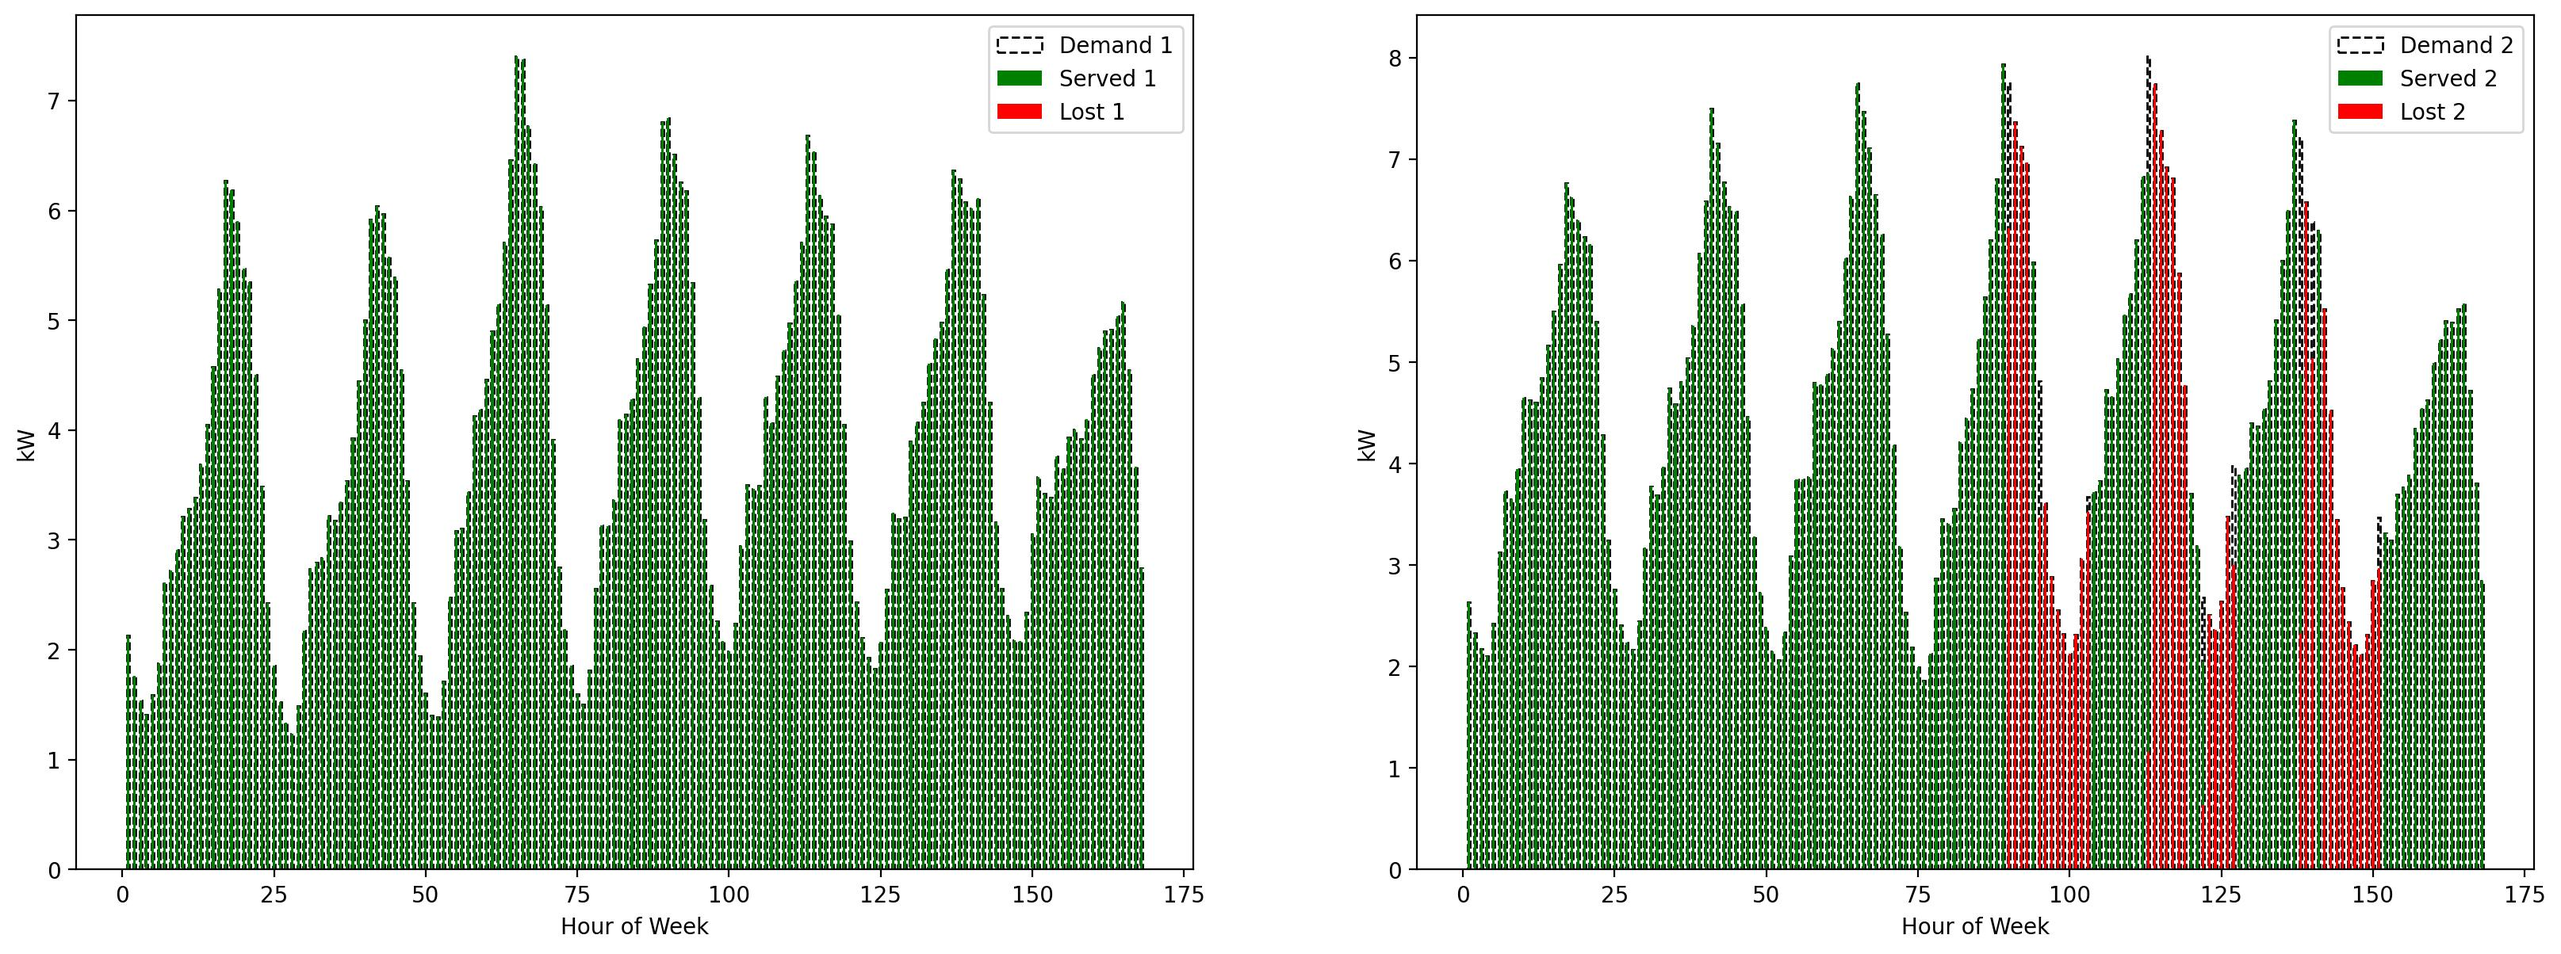
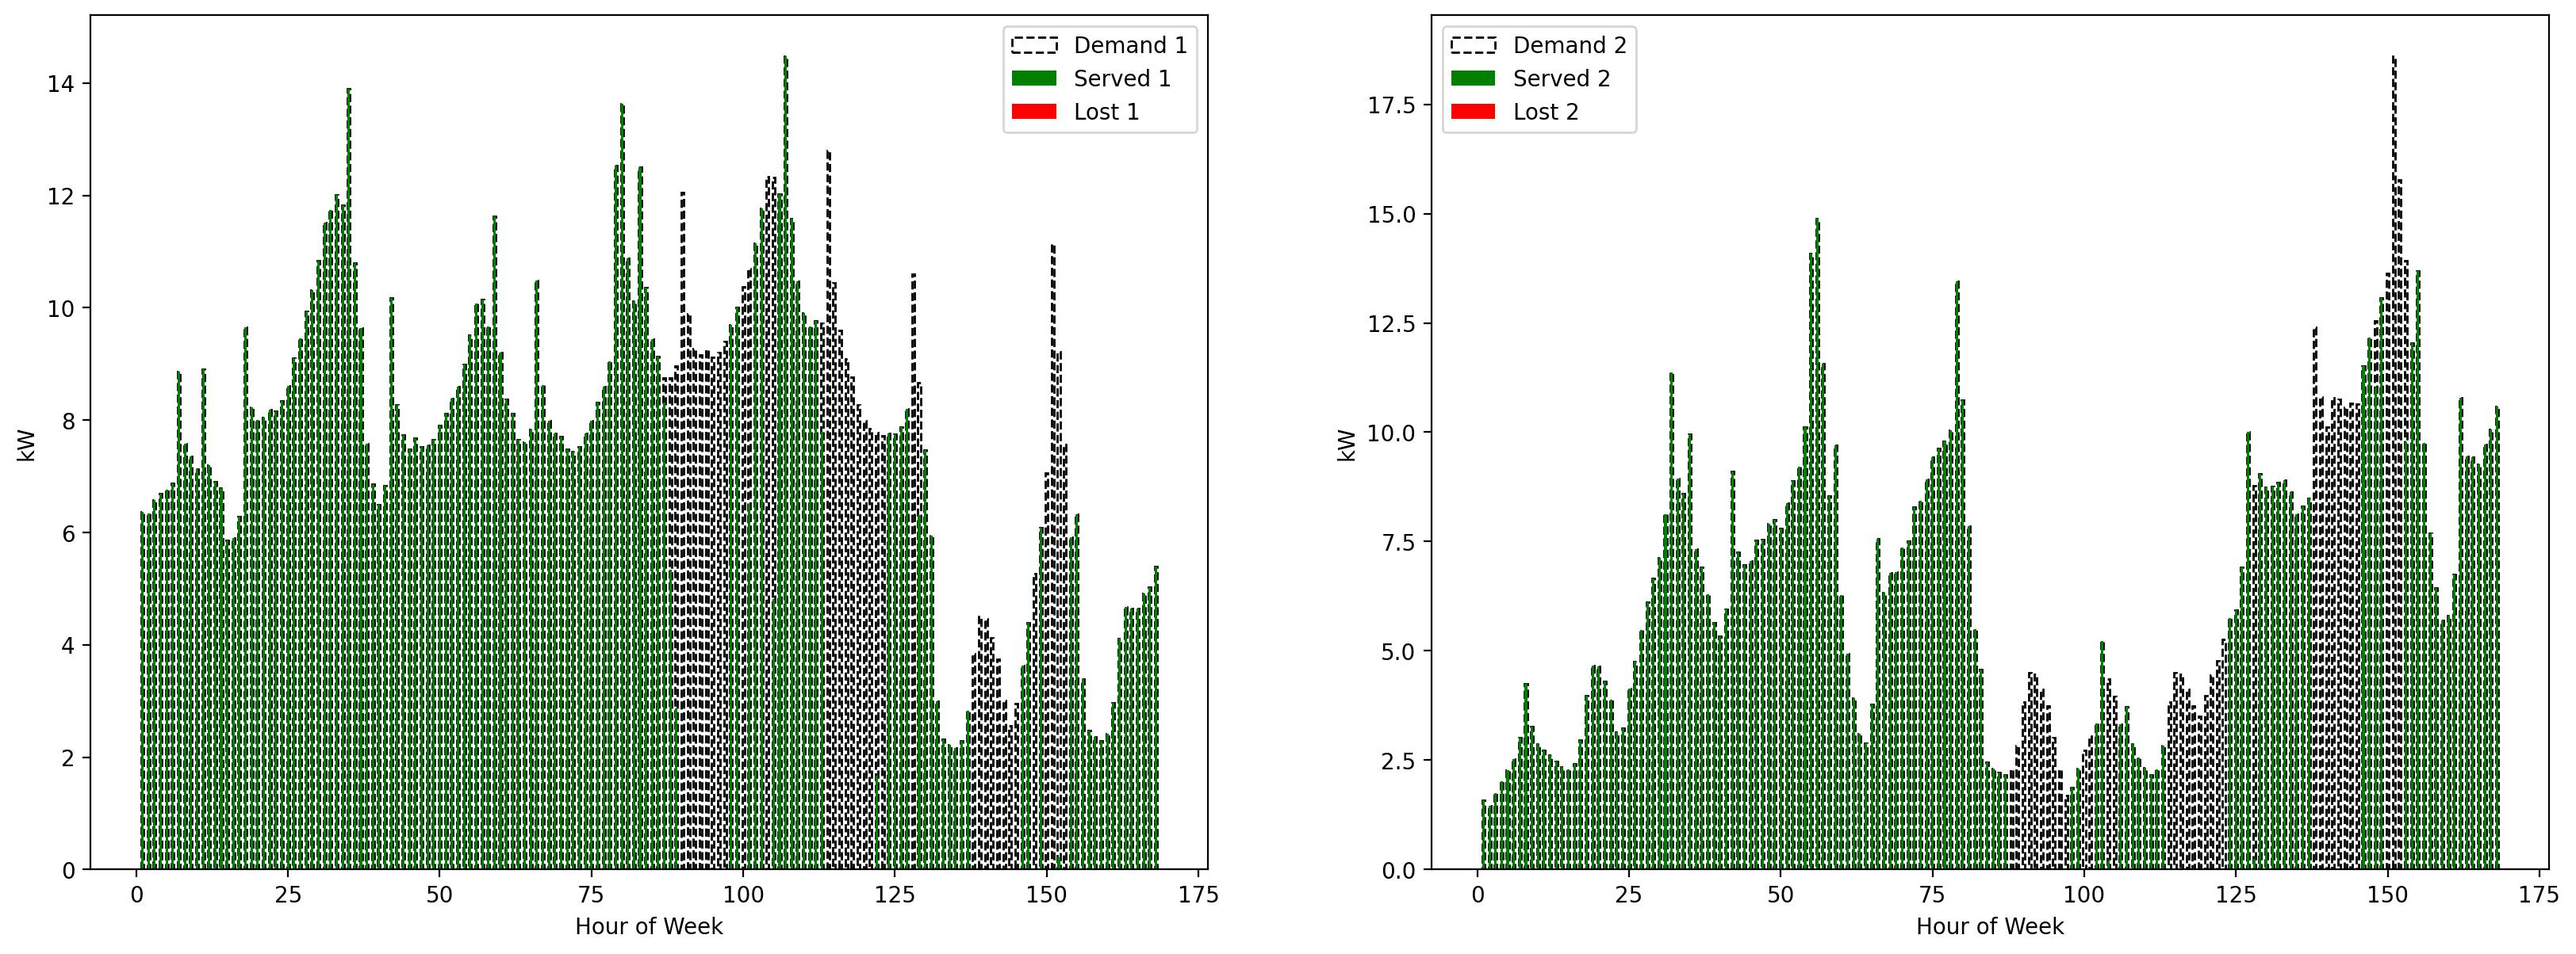
u

diff --git a/PlotSolutions.py b/PlotSolutions.py
@@ -18,7 +18,7 @@ if __name__ == '__main__':
     solar, l1, l2 = geneCases()
     w = 0.4
     s = 5  # Scenario number
-    g = 6  # Month number
+    g = 1  # Month number
     Eta_i = 0.9
     with open('Solution.pkl', 'rb') as handle:
         x_opt, y_pves, y_dges, y_grides, \
@@ -55,10 +55,10 @@ if __name__ == '__main__':
             width=w, linestyle='--', edgecolor='black', facecolor='white', label='Demand')
     plt.bar(RNGT, [Eta_i * y_esl[(t, g, s)]for t in RNGT], color='#35824a', width=w, label='ES to Load')
 
-    #plt.bar(RNGT, [Eta_i * y_pvl[(t, g, s)]for t in RNGT], color='#c7a644', width=w,
-            #bottom=[Eta_i * y_esl[(t, g, s)]for t in RNGT], label='PV to Load')
-    plt.bar(RNGT, [y_pvcur[(t, g, s)] for t in RNGT], color='orange', width=w,
-             label='PV Cur')
+    plt.bar(RNGT, [Eta_i * y_pvl[(t, g, s)]for t in RNGT], color='#c7a644', width=w,
+            bottom=[Eta_i * y_esl[(t, g, s)]for t in RNGT], label='PV to Load')
+    '''plt.bar(RNGT, [y_pvcur[(t, g, s)] for t in RNGT], color='orange', width=w,
+             label='PV Cur')'''
 
     plt.bar(RNGT, [Eta_i * y_dgl[(t, g, s)]for t in RNGT], color='#3c66b5', width=w,
             bottom=[Eta_i * (y_esl[(t, g, s)] + y_pvl[(t, g, s)]) for t in RNGT], label='DG to Load')
